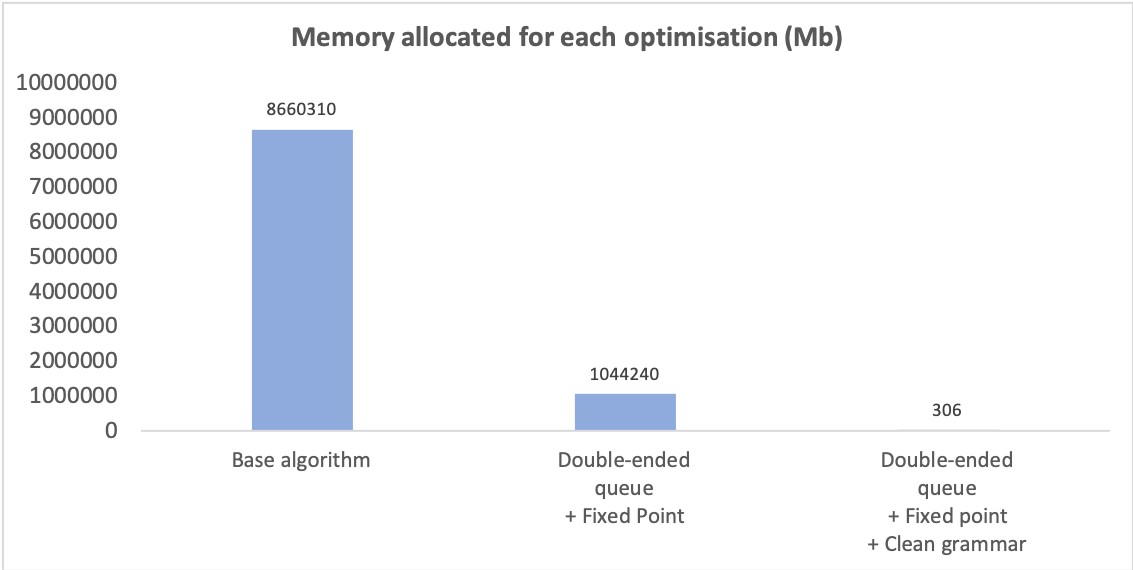
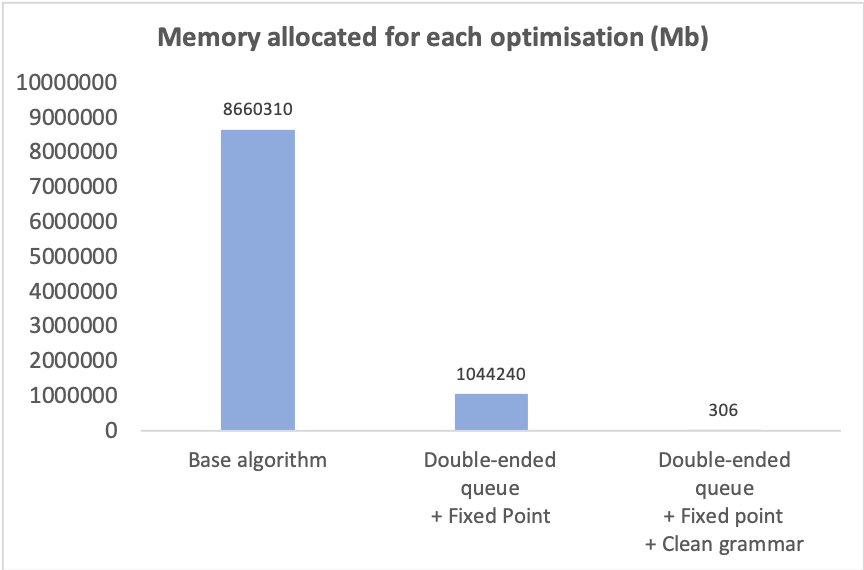
figuras sec 6

diff --git a/doc/Concur2019/evaluation.tex b/doc/Concur2019/evaluation.tex
@@ -21,8 +21,8 @@ incurred costs. The results are depicted in
 Figure~\ref{fig:results}.
 
 \begin{figure}[h]
-	\includegraphics[height=4cm]{img/run_time}	\enspace
-	\includegraphics[height=4cm]{img/memory_alloc}
+	\includegraphics[height=4.5cm]{img/run_time}	\hspace*{5mm}
+	\includegraphics[height=4.5cm]{img/memory_alloc}
 	\caption{Test results: running times (on the left) and
 	memory allocated (on the right) checking the equivalence
 	of context-free session types in 154 tests.}
